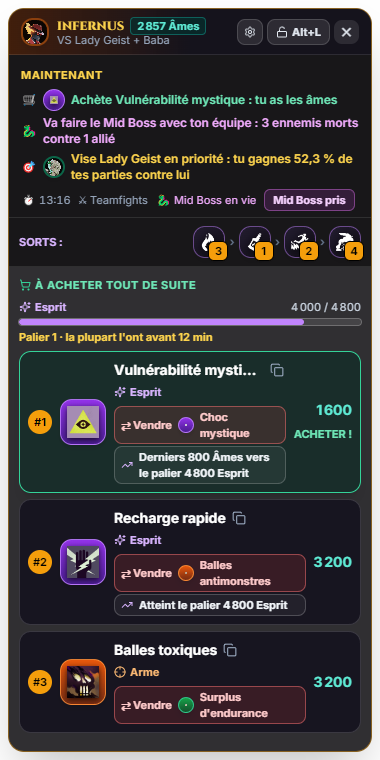
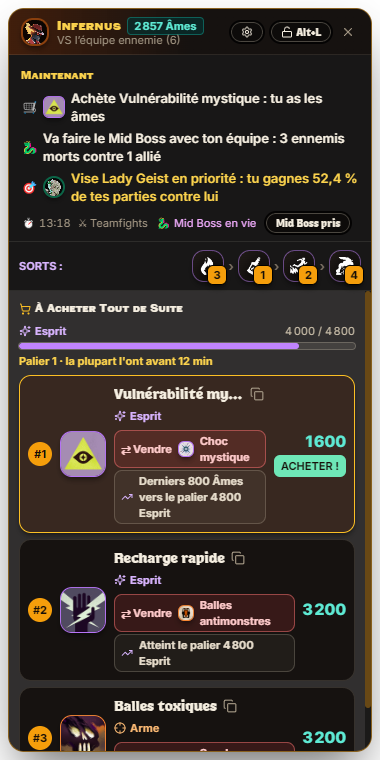
Undo after Skip gives the #1 lock back; new README screenshots
Skipping the locked #1 moved the lock to the next item, so Undo brought the
skipped item back as #2.

diff --git a/src/App.tsx b/src/App.tsx
@@ -901,14 +901,19 @@ export function App() {
   };
 
   // "Skip" in the buy list marks the item bought, with an Undo: a stray click on a second monitor is easy
-  const [skipped, setSkipped] = useState<{ itemId: string; name: string } | null>(null);
+  // Skipping the locked #1 moves the lock to the next item: Undo gives it back, or the item came back as #2
+  const [skipped, setSkipped] = useState<{ itemId: string; name: string; lock: LockedNextPurchase | null } | null>(null);
   const skipItem = (itemId: string, name: string) => {
     handleToggleOwnedItem(itemId);
-    setSkipped({ itemId, name });
+    setSkipped({ itemId, name, lock: lockedItemId === itemId ? lockedNext : null });
   };
   const undoSkip = () => {
     if (!skipped) return;
-    const { itemId } = skipped;
+    const { itemId, lock } = skipped;
+    if (lock) {
+      setLockedNext(lock);
+      localStorage.setItem('dl_lockedNext', JSON.stringify(lock));
+    }
     setOwnedItems((prev) => {
       const manualOwned = readManualOwned();
       manualOwned.delete(itemId);
